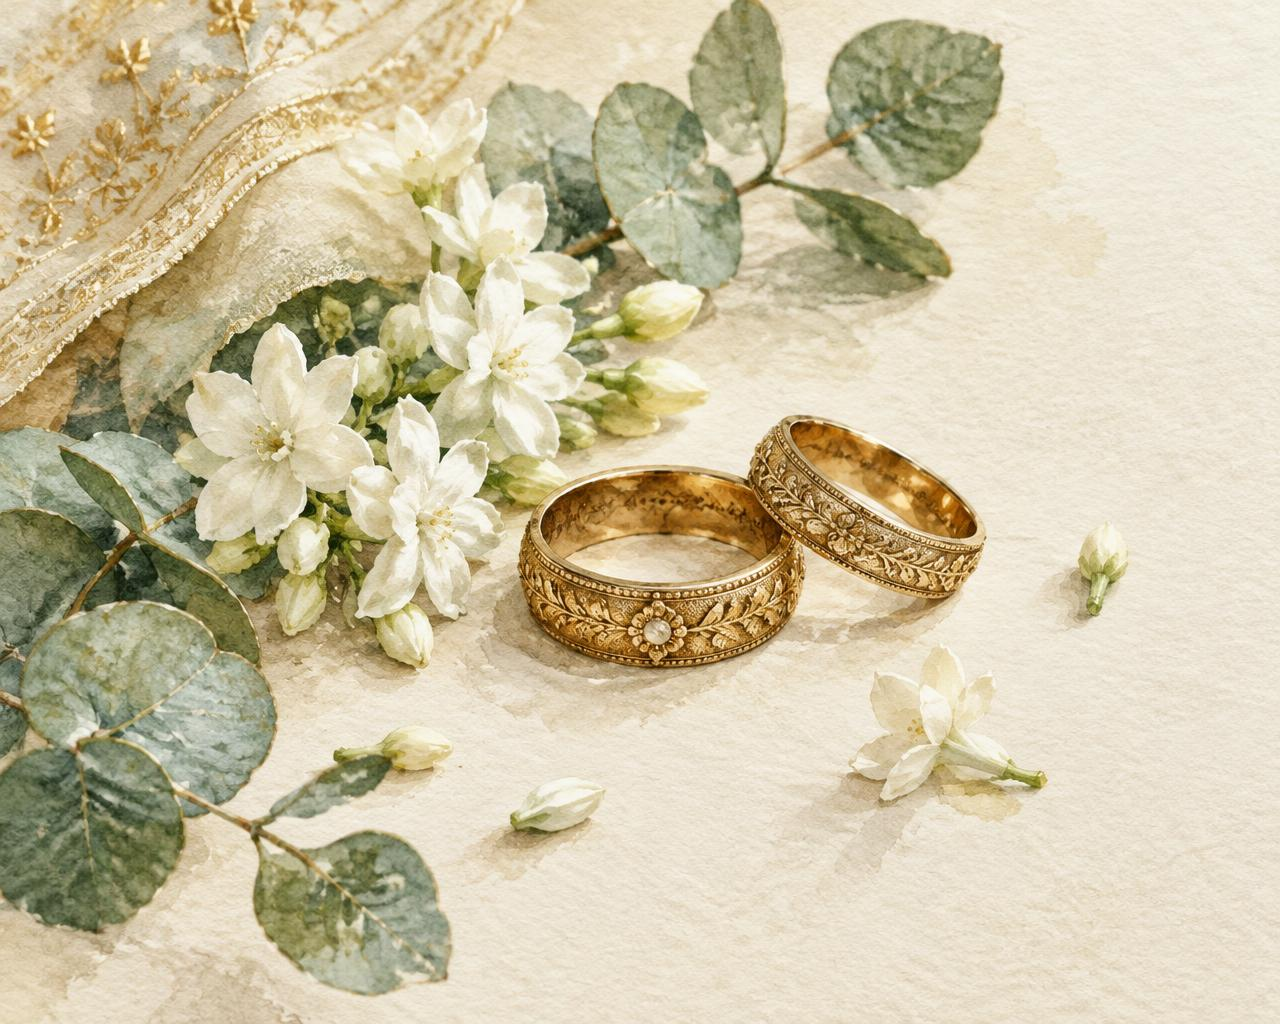
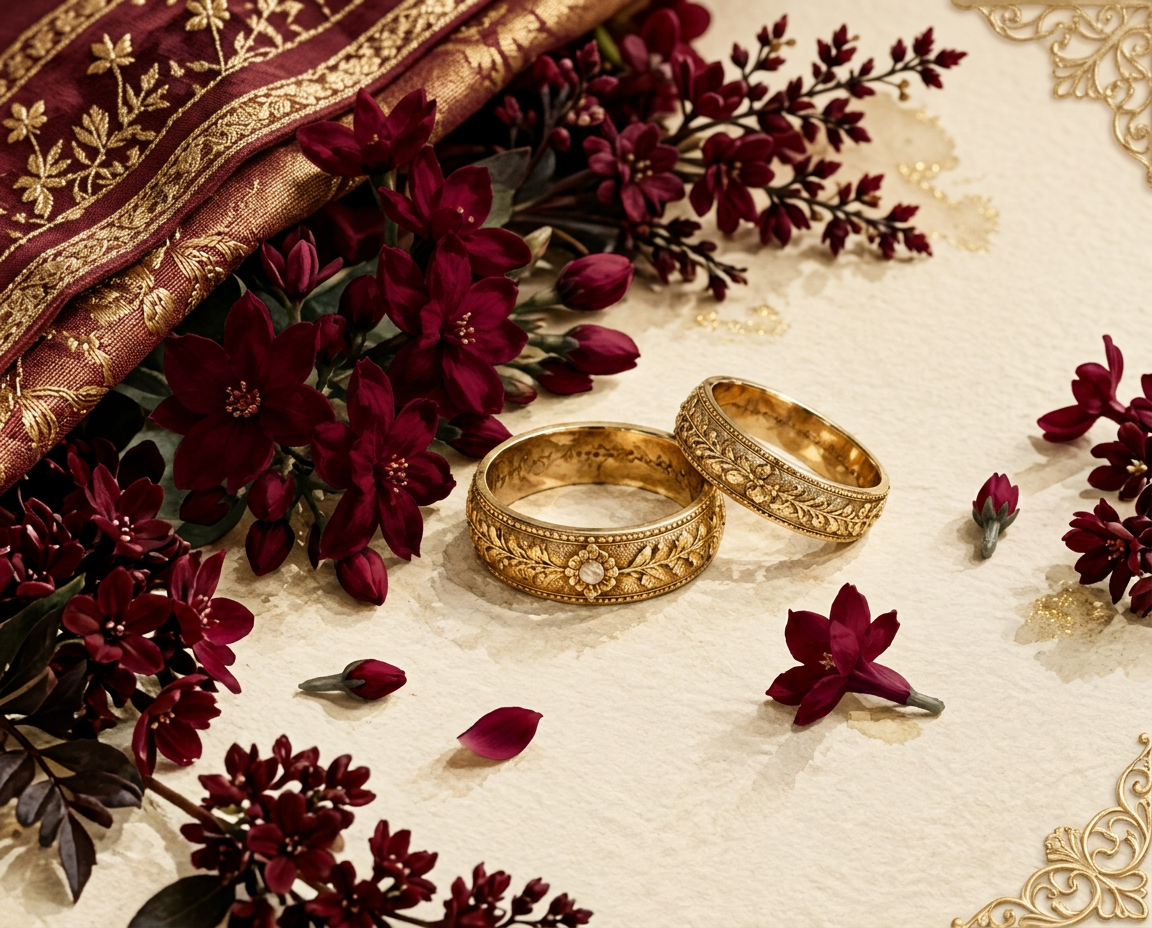
preview image

diff --git a/index.html b/index.html
@@ -4,26 +4,27 @@
 <head>
   <meta charset="UTF-8" />
   <meta name="viewport" content="width=device-width, initial-scale=1.0" />
-  <title>Ashik & Thasleema</title>
+  <title>Thasleema & Ashik</title>
 
   <!-- Open Graph / Social Media Preview Tags -->
   <meta property="og:type" content="website" />
   <meta property="og:url" content="https://ashikashraf.github.io/thasleema-weds-ashik/" />
-  <meta property="og:title" content="Ashik & Thasleema - Wedding Invitation" />
+  <meta property="og:title" content="Thasleema & Ashik - Wedding Invitation" />
   <meta property="og:description" content="We would love to celebrate with you! Join us for our Nikah and Reception." />
   <meta property="og:image" content="https://ashikashraf.github.io/thasleema-weds-ashik/gallery-rings.jpg" />
   <meta property="og:image:secure_url" content="https://ashikashraf.github.io/thasleema-weds-ashik/gallery-rings.jpg" />
   <meta property="og:image:type" content="image/jpeg" />
-  <meta property="og:image:width" content="1280" />
-  <meta property="og:image:height" content="1024" />
+  <meta property="og:image:width" content="1152" />
+  <meta property="og:image:height" content="928" />
   <meta property="og:image:alt" content="Antique gold wedding rings surrounded by burgundy blossoms" />
 
   <!-- Twitter Card Tags -->
   <meta name="twitter:card" content="summary_large_image" />
-  <meta name="twitter:title" content="Ashik & Thasleema - Wedding Invitation" />
-  <meta name="twitter:description" content="We would love to celebrate with you! Join us for our Nikah and Reception." />
+  <meta name="twitter:title" content="Thasleema & Ashik - Wedding Invitation" />
+  <meta name="twitter:description"
+    content="We would love to celebrate with you! Join us for our Nikah and Reception." />
   <meta name="twitter:image" content="https://ashikashraf.github.io/thasleema-weds-ashik/gallery-rings.jpg" />
-  <meta name="twitter:image:alt" content="Ashik & Thasleema - Wedding Invitation" />
+  <meta name="twitter:image:alt" content="Thasleema & Ashik - Wedding Invitation" />
 </head>
 
 <body>

diff --git a/src/components/WeddingInvitation.tsx b/src/components/WeddingInvitation.tsx
@@ -314,9 +314,9 @@ function Quote() {
 }
 
 const gallery = [
-  { src: galleryFlowers, alt: "Burgundy and terracotta wedding flowers with antique gold ribbon", width: 1024, height: 1280 },
-  { src: galleryRings, alt: "Antique gold wedding rings surrounded by burgundy blossoms", width: 1280, height: 1024 },
-  { src: galleryTextile, alt: "Deep burgundy bridal fabric with intricate antique gold embroidery", width: 1024, height: 1280 },
+  { src: galleryFlowers, alt: "Burgundy and terracotta wedding flowers with antique gold ribbon", width: 928, height: 1152 },
+  { src: galleryRings, alt: "Antique gold wedding rings surrounded by burgundy blossoms", width: 1152, height: 928 },
+  { src: galleryTextile, alt: "Deep burgundy bridal fabric with intricate antique gold embroidery", width: 928, height: 1152 },
 ];
 
 function TiltCard({ image, onClick }: { image: any; onClick: () => void }) {
